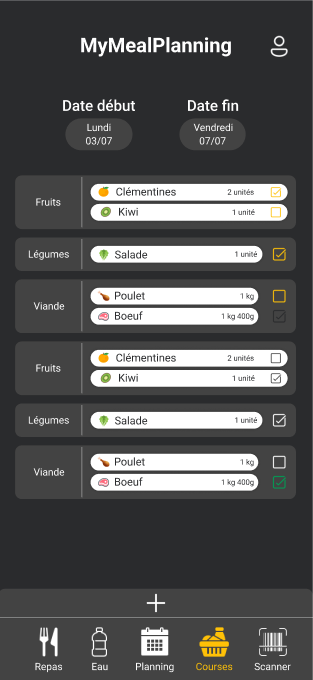
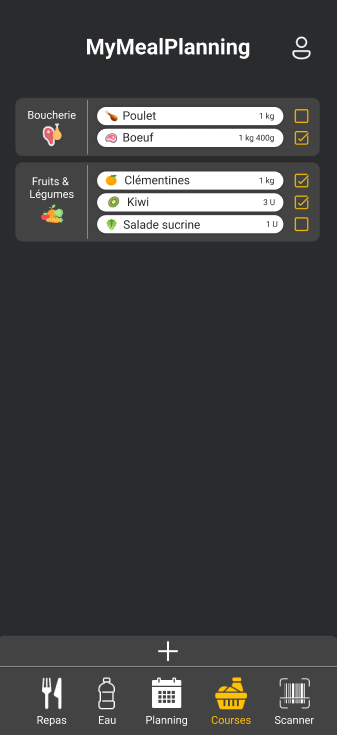
changements images

diff --git a/index.html b/index.html
@@ -36,7 +36,7 @@
     </p>
     <div class="mb-16 pt-10 flex justify-center p-8 flex-wrap">
       <img class="block  mb-3 mx-auto md:w-1/4 rounded p-8" src="img/hero1.PNG" alt="maquette_appli" />
-      <img class="block mb-3 mx-auto md:w-1/4 rounded p-8" src="img/hero2.PNG" alt="maquette_appli" />
+      <img class="block mb-3 mx-auto md:w-1/4 rounded p-8" src="img/hero2bis.PNG" alt="maquette_appli" />
     </div>
     <div>
       <h2 class="title text-2xl text-center text-white mb-5 pt-20 md:text-5xl">
@@ -179,7 +179,7 @@
             tout ce dont on a besoin pour des repas équilibrés, à terme, l'application pourra se connecter à une
             application de commande en ligne afin d'acheter directement tous ces produits en quelques clics.
           </p>
-          <div class="flex items-center p-12 md:pl-20 object-cover md:w-1/3">
+          <div class="flex items-center liste_courses p-12 md:pl-20 object-cover md:w-1/3">
             <img class="rounded-sm p-12" src="img/appli3.PNG" alt="appli" />
           </div>
         </div>

diff --git a/css/main.css b/css/main.css
@@ -38,3 +38,7 @@
   }
 }
 
+.liste_courses {
+  width: 450px;
+}
+
